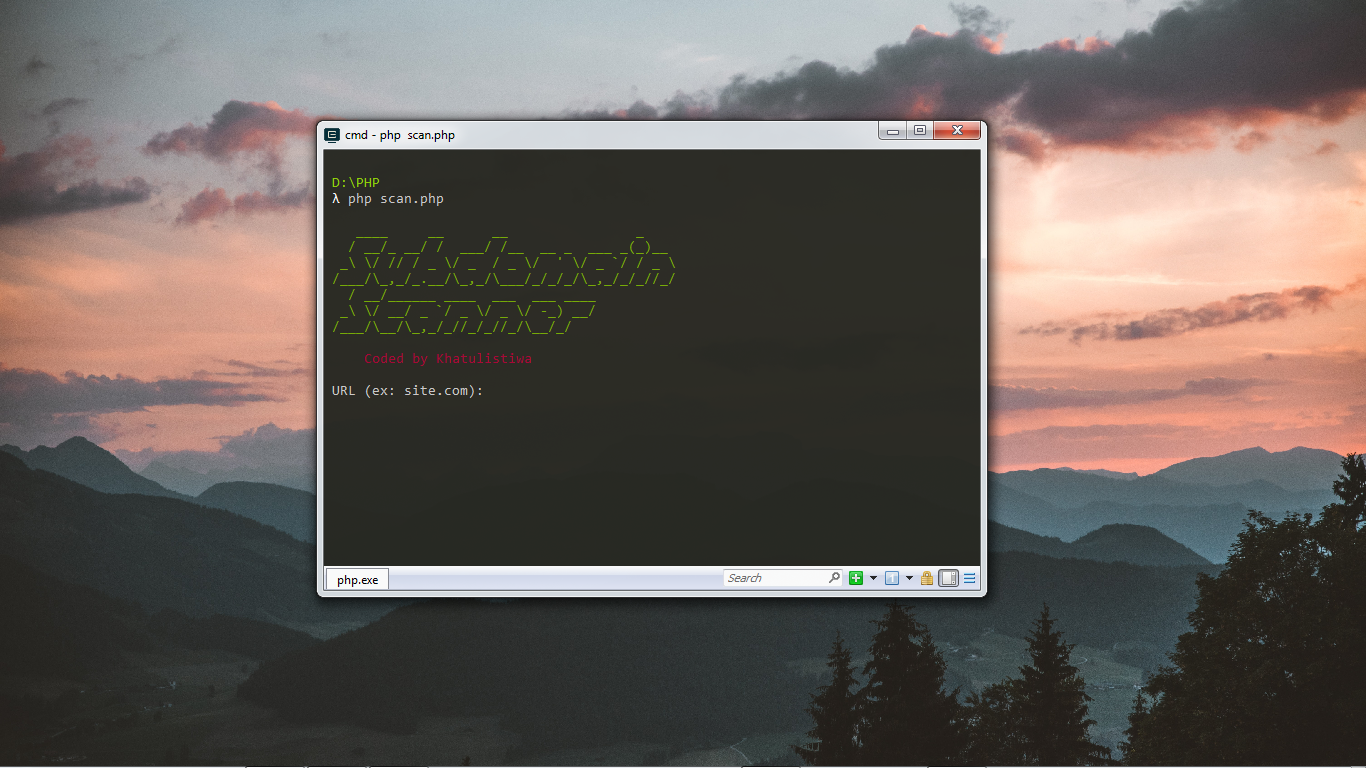
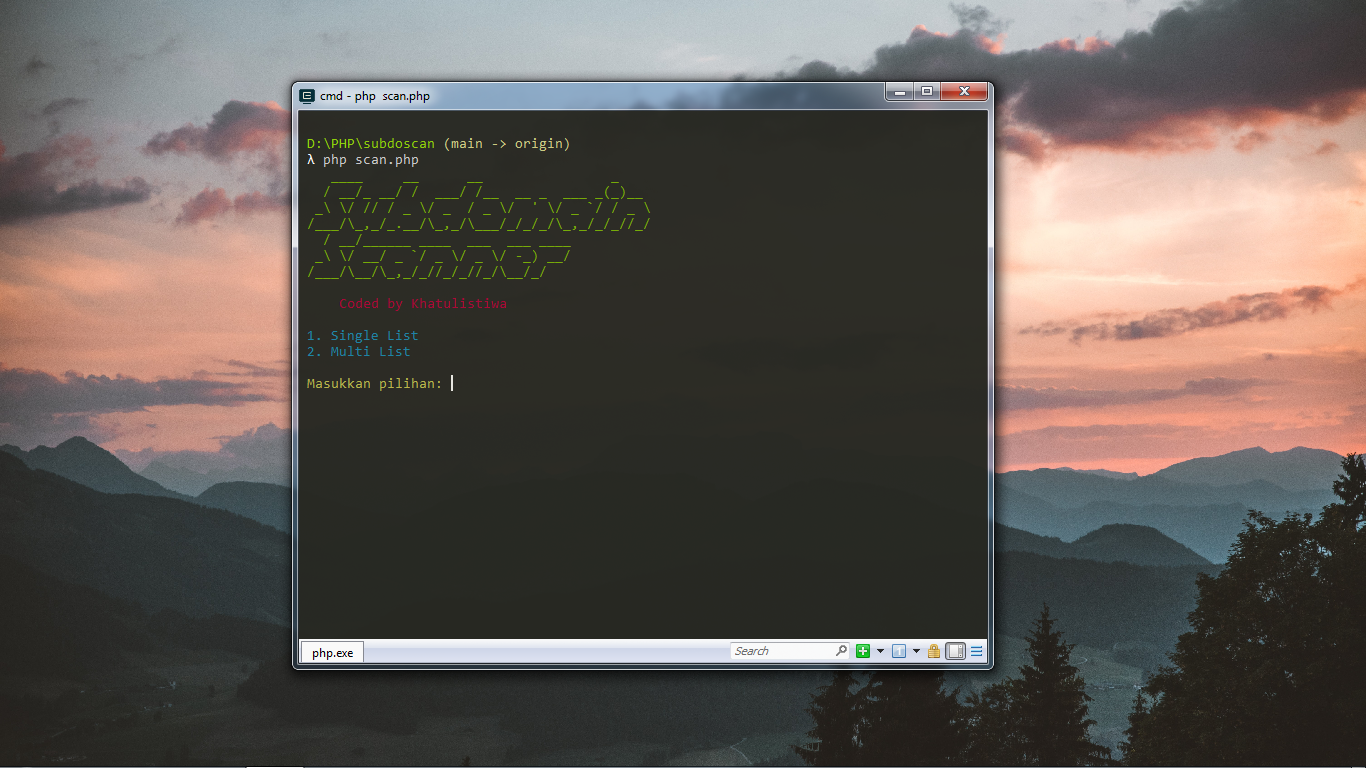
Mass Scan

Changed region(s): [[0.1845, 0.0938, 0.7379, 0.9062], [0.4612, 0.3125, 0.4919, 0.375], [0.4305, 0.25, 0.4612, 0.2812]]

diff --git a/scan.php b/scan.php
@@ -1,42 +1,107 @@
 <?php
 
-$green = "\e[32m";
-$red = "\033[0;31m";
-$clear = "\e[0m";
+error_reporting(0);
 
-echo " $green
-   ____     __      __                _    
-  / __/_ __/ /  ___/ /__  __ _  ___ _(_)__ 
- _\ \/ // / _ \/ _  / _ \/  ' \/ _ `/ / _ \
-/___/\_,_/_.__/\_,_/\___/_/_/_/\_,_/_/_//_/
-  / __/______ ____  ___  ___ ____          
- _\ \/ __/ _ `/ _ \/ _ \/ -_) __/          
-/___/\__/\_,_/_//_/_//_/\__/_/             
+function banner() {
+	include 'warna.php';
 
-   $red Coded by Khatulistiwa $clear
-";
+	echo $hijau;
+	echo "   ____     __      __                _\n";
+	echo "  / __/_ __/ /  ___/ /__  __ _  ___ _(_)__\n";
+	echo " _\ \/ // / _ \/ _  / _ \/  ' \/ _ `/ / _ \ \n";
+	echo "/___/\_,_/_.__/\_,_/\___/_/_/_/\_,_/_/_//_/\n";
+	echo "  / __/______ ____  ___  ___ ____\n";
+	echo " _\ \/ __/ _ `/ _ \/ _ \/ -_) __/\n";         
+	echo "/___/\__/\_,_/_//_/_//_/\__/_/\n\n";
 
-echo "\nURL (ex: site.com): ";
-$input = trim(fgets(STDIN));
+	echo $merah;
+	echo "    Coded by Khatulistiwa";
+	echo $clear;     
 
-$ch = curl_init(); 
-curl_setopt($ch, CURLOPT_URL, "https://sonar.omnisint.io/subdomains/".$input);
-curl_setopt($ch, CURLOPT_RETURNTRANSFER, 1); 
-$output = curl_exec($ch); 
-curl_close($ch); 
-
-$hasil = json_decode($output, true);
-echo "\n";
-
-if ($hasil == null) {
-	echo $red . "Wrong input or site doesn't have subdomain! $clear \n";
-} else {
-	foreach($hasil as $key => $list) {
-	    echo $key+1 . ". " . $list . "\n";
-	    $fp = fopen('result.txt', 'a+');
-		fwrite($fp, $list."\n");
-		fclose($fp);
-	}
-
-	echo "$green \nSaved in result.txt! $clear \n";
+	menu();
 }
+
+function menu() {
+	include 'warna.php';
+
+	echo "\n\n{$cyan}1. Single List";
+	echo "\n2. Multi List";
+	echo "\n\n{$kuning}Masukkan pilihan: ";
+	$pilih = trim(fgets(STDIN));
+
+	if ($pilih == 1) {
+		singleList();
+	} else if ($pilih == 2) {
+		multipleList();
+	} else {
+		echo "\n{$merah}Pilihan anda tidak valid!{$clear}\n";
+	}
+}
+
+function singleList() {
+	include 'warna.php';
+
+	echo "URL (ex: site.com): ";
+	$input = trim(fgets(STDIN));
+
+	$ch = curl_init(); 
+	curl_setopt($ch, CURLOPT_URL, "https://sonar.omnisint.io/subdomains/$input");
+	curl_setopt($ch, CURLOPT_RETURNTRANSFER, 1); 
+	$output = curl_exec($ch); 
+	curl_close($ch);
+
+	$hasil = json_decode($output, true);
+	echo "\n$clear";
+
+	if (is_null($hasil)) {
+		echo "{$merah}Wrong input or site doesn't have subdomain!{$clear}\n";
+	} else {
+		foreach ($hasil as $no => $list) {
+		    echo $no+1 . ". $list\n";
+		    $fp = fopen("./result/single/$input.txt", 'a+');
+			fwrite($fp, "$list\n");
+			fclose($fp);
+		}
+
+		echo "\n{$cyan}Saved in ./result/single/$input.txt!{$clear}\n";
+	}
+}
+
+function multipleList() {
+	include 'warna.php';
+
+	echo "Masukkan list: ";
+	$input = trim(fgets(STDIN));
+	$site = explode(PHP_EOL, file_get_contents($input));
+
+	if (!file_exists($input)) {
+		die("\n{$merah}File tidak ada!{$clear}\n");
+	} else {
+		foreach ($site as $no => $target) {
+			$ch = curl_init(); 
+			curl_setopt($ch, CURLOPT_URL, "https://sonar.omnisint.io/subdomains/$target");
+			curl_setopt($ch, CURLOPT_RETURNTRANSFER, 1); 
+			$output = curl_exec($ch); 
+			curl_close($ch);
+
+			$hasil = json_decode($output, true);
+			echo "$clear\n";
+
+			if (is_null($hasil)) {
+				echo "{$merah}$target : site doesn't have subdomain!{$clear}\n";
+			} else {
+				echo "{$clear}" . ++$no . ". $target ==> ".count($hasil)." subdomains {$cyan}(Saved in ./result/multiple/$target.txt!){$clear}";
+
+				foreach ($hasil as $list) {
+				    $fp = fopen("./result/multiple/$target.txt", 'a+');
+					fwrite($fp, "$list\n");
+					fclose($fp);
+				}
+			}
+		}
+
+		echo "\n";
+	}
+}
+
+banner();

diff --git a/warna.php b/warna.php
@@ -1,0 +1,7 @@
+<?php
+
+$clear = "\e[0m";
+$merah = "\e[31m";
+$hijau = "\e[32m";
+$kuning = "\e[33m";
+$cyan = "\e[36m";
